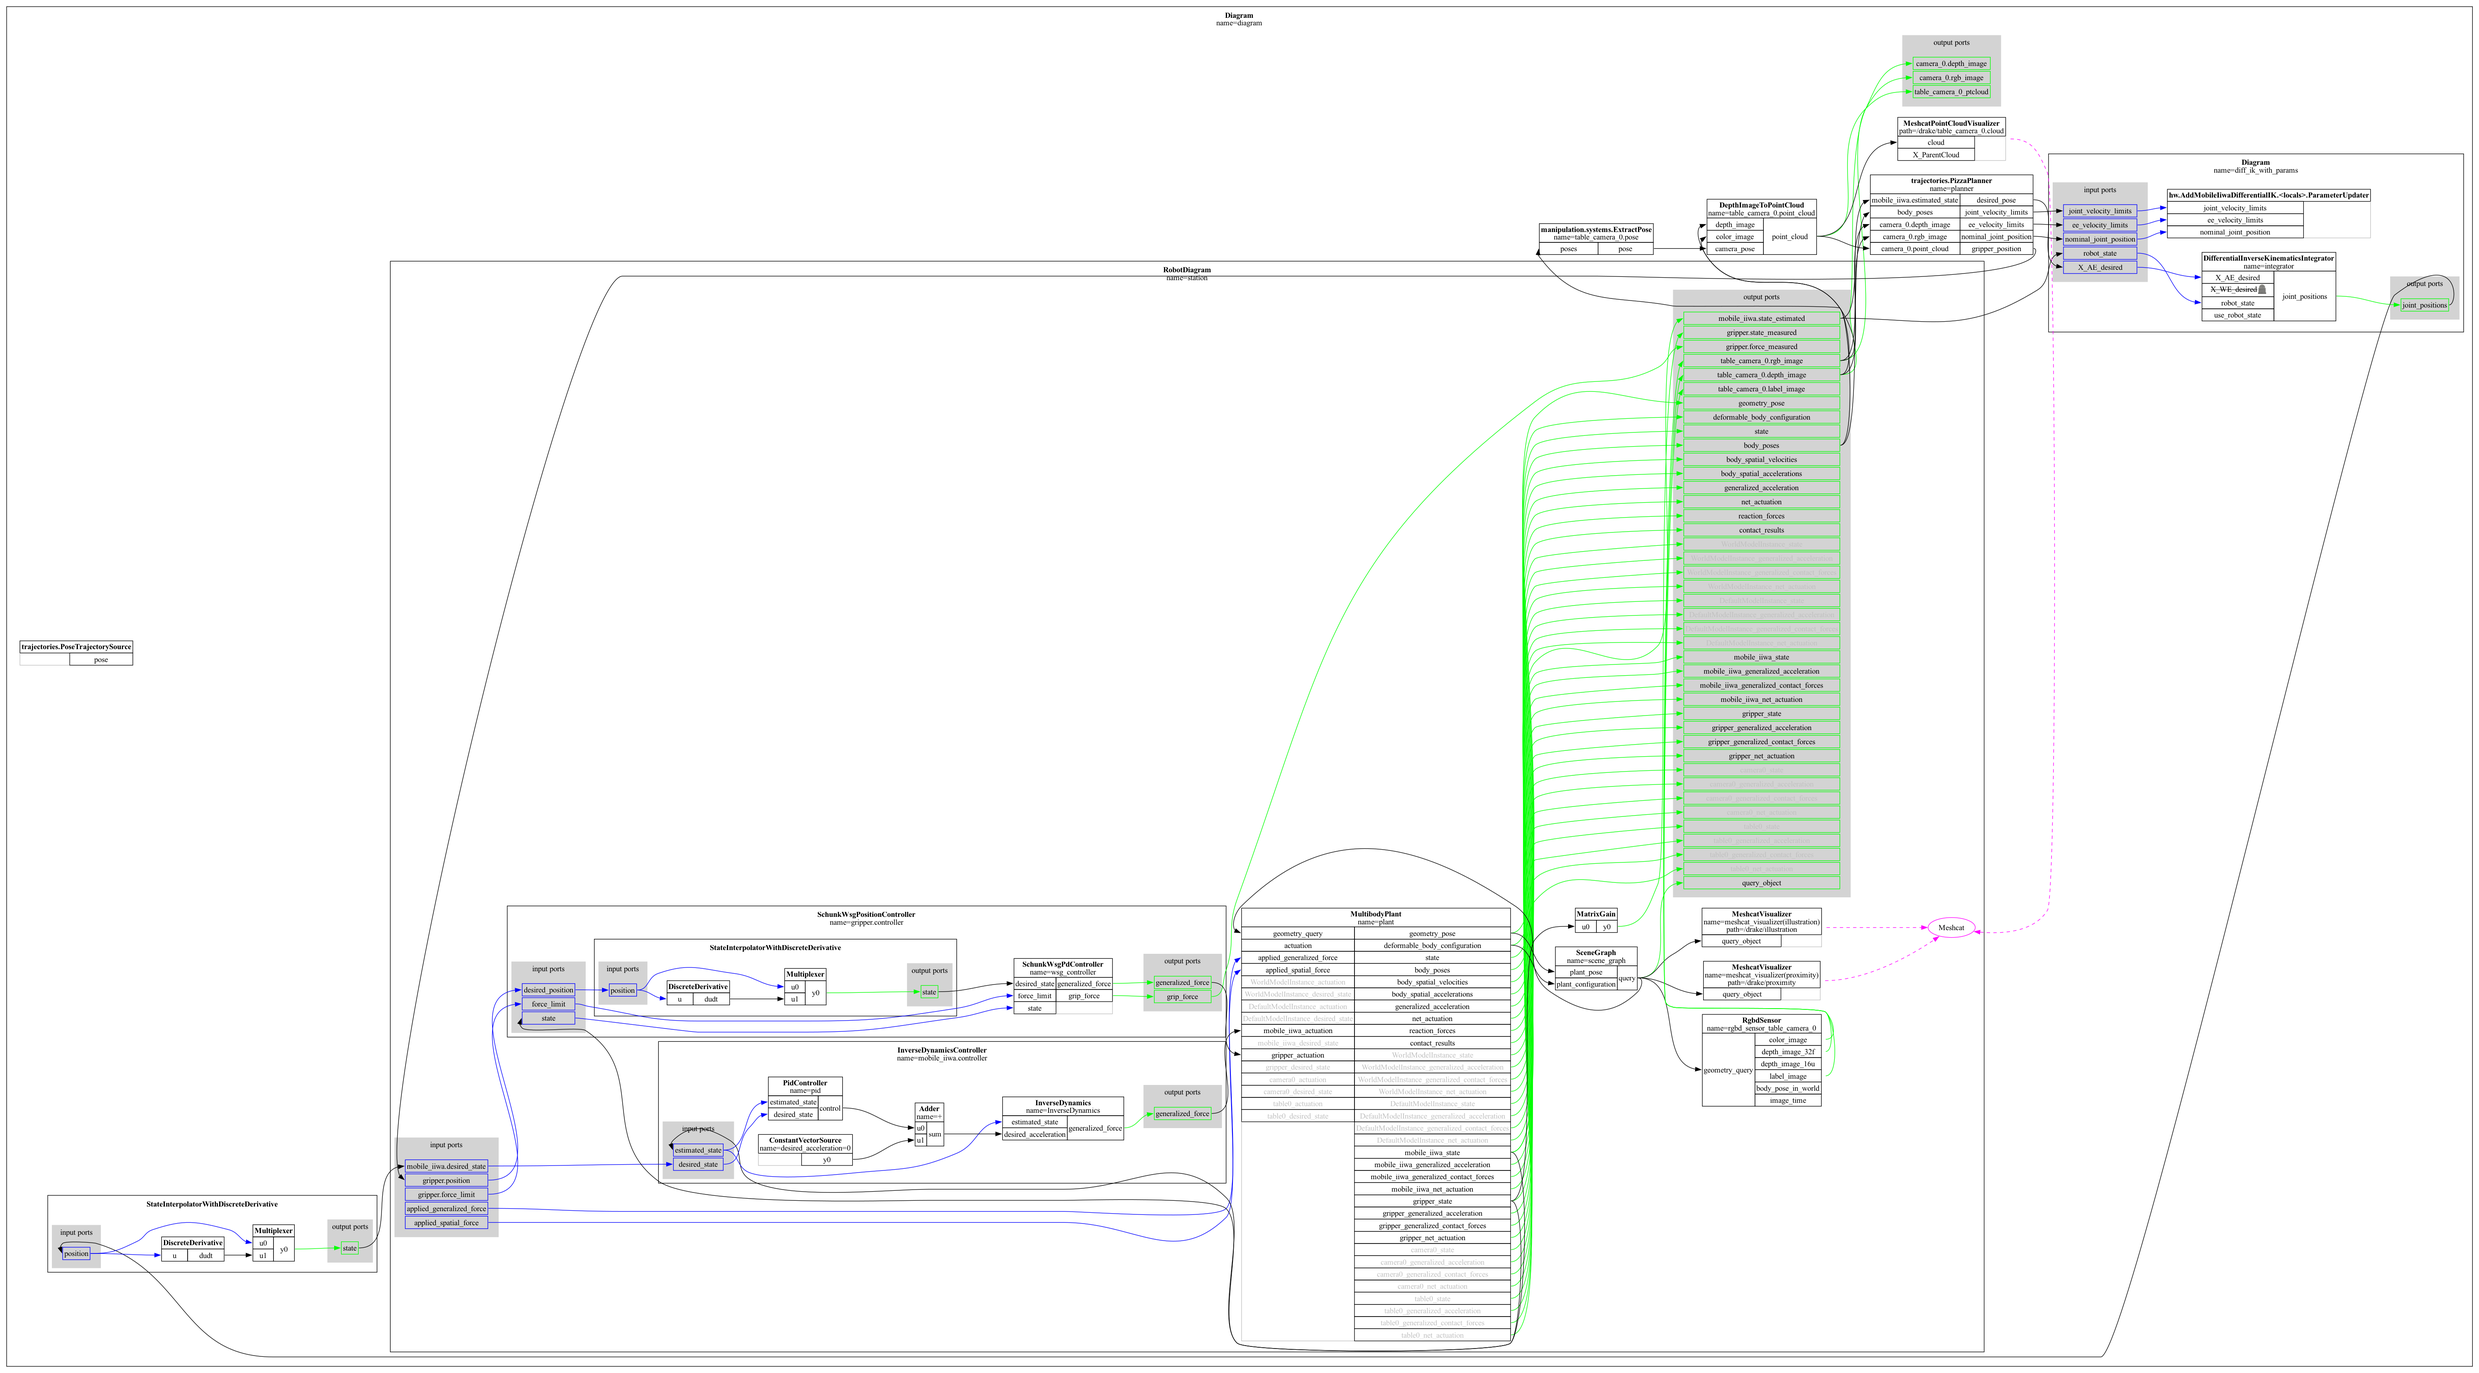
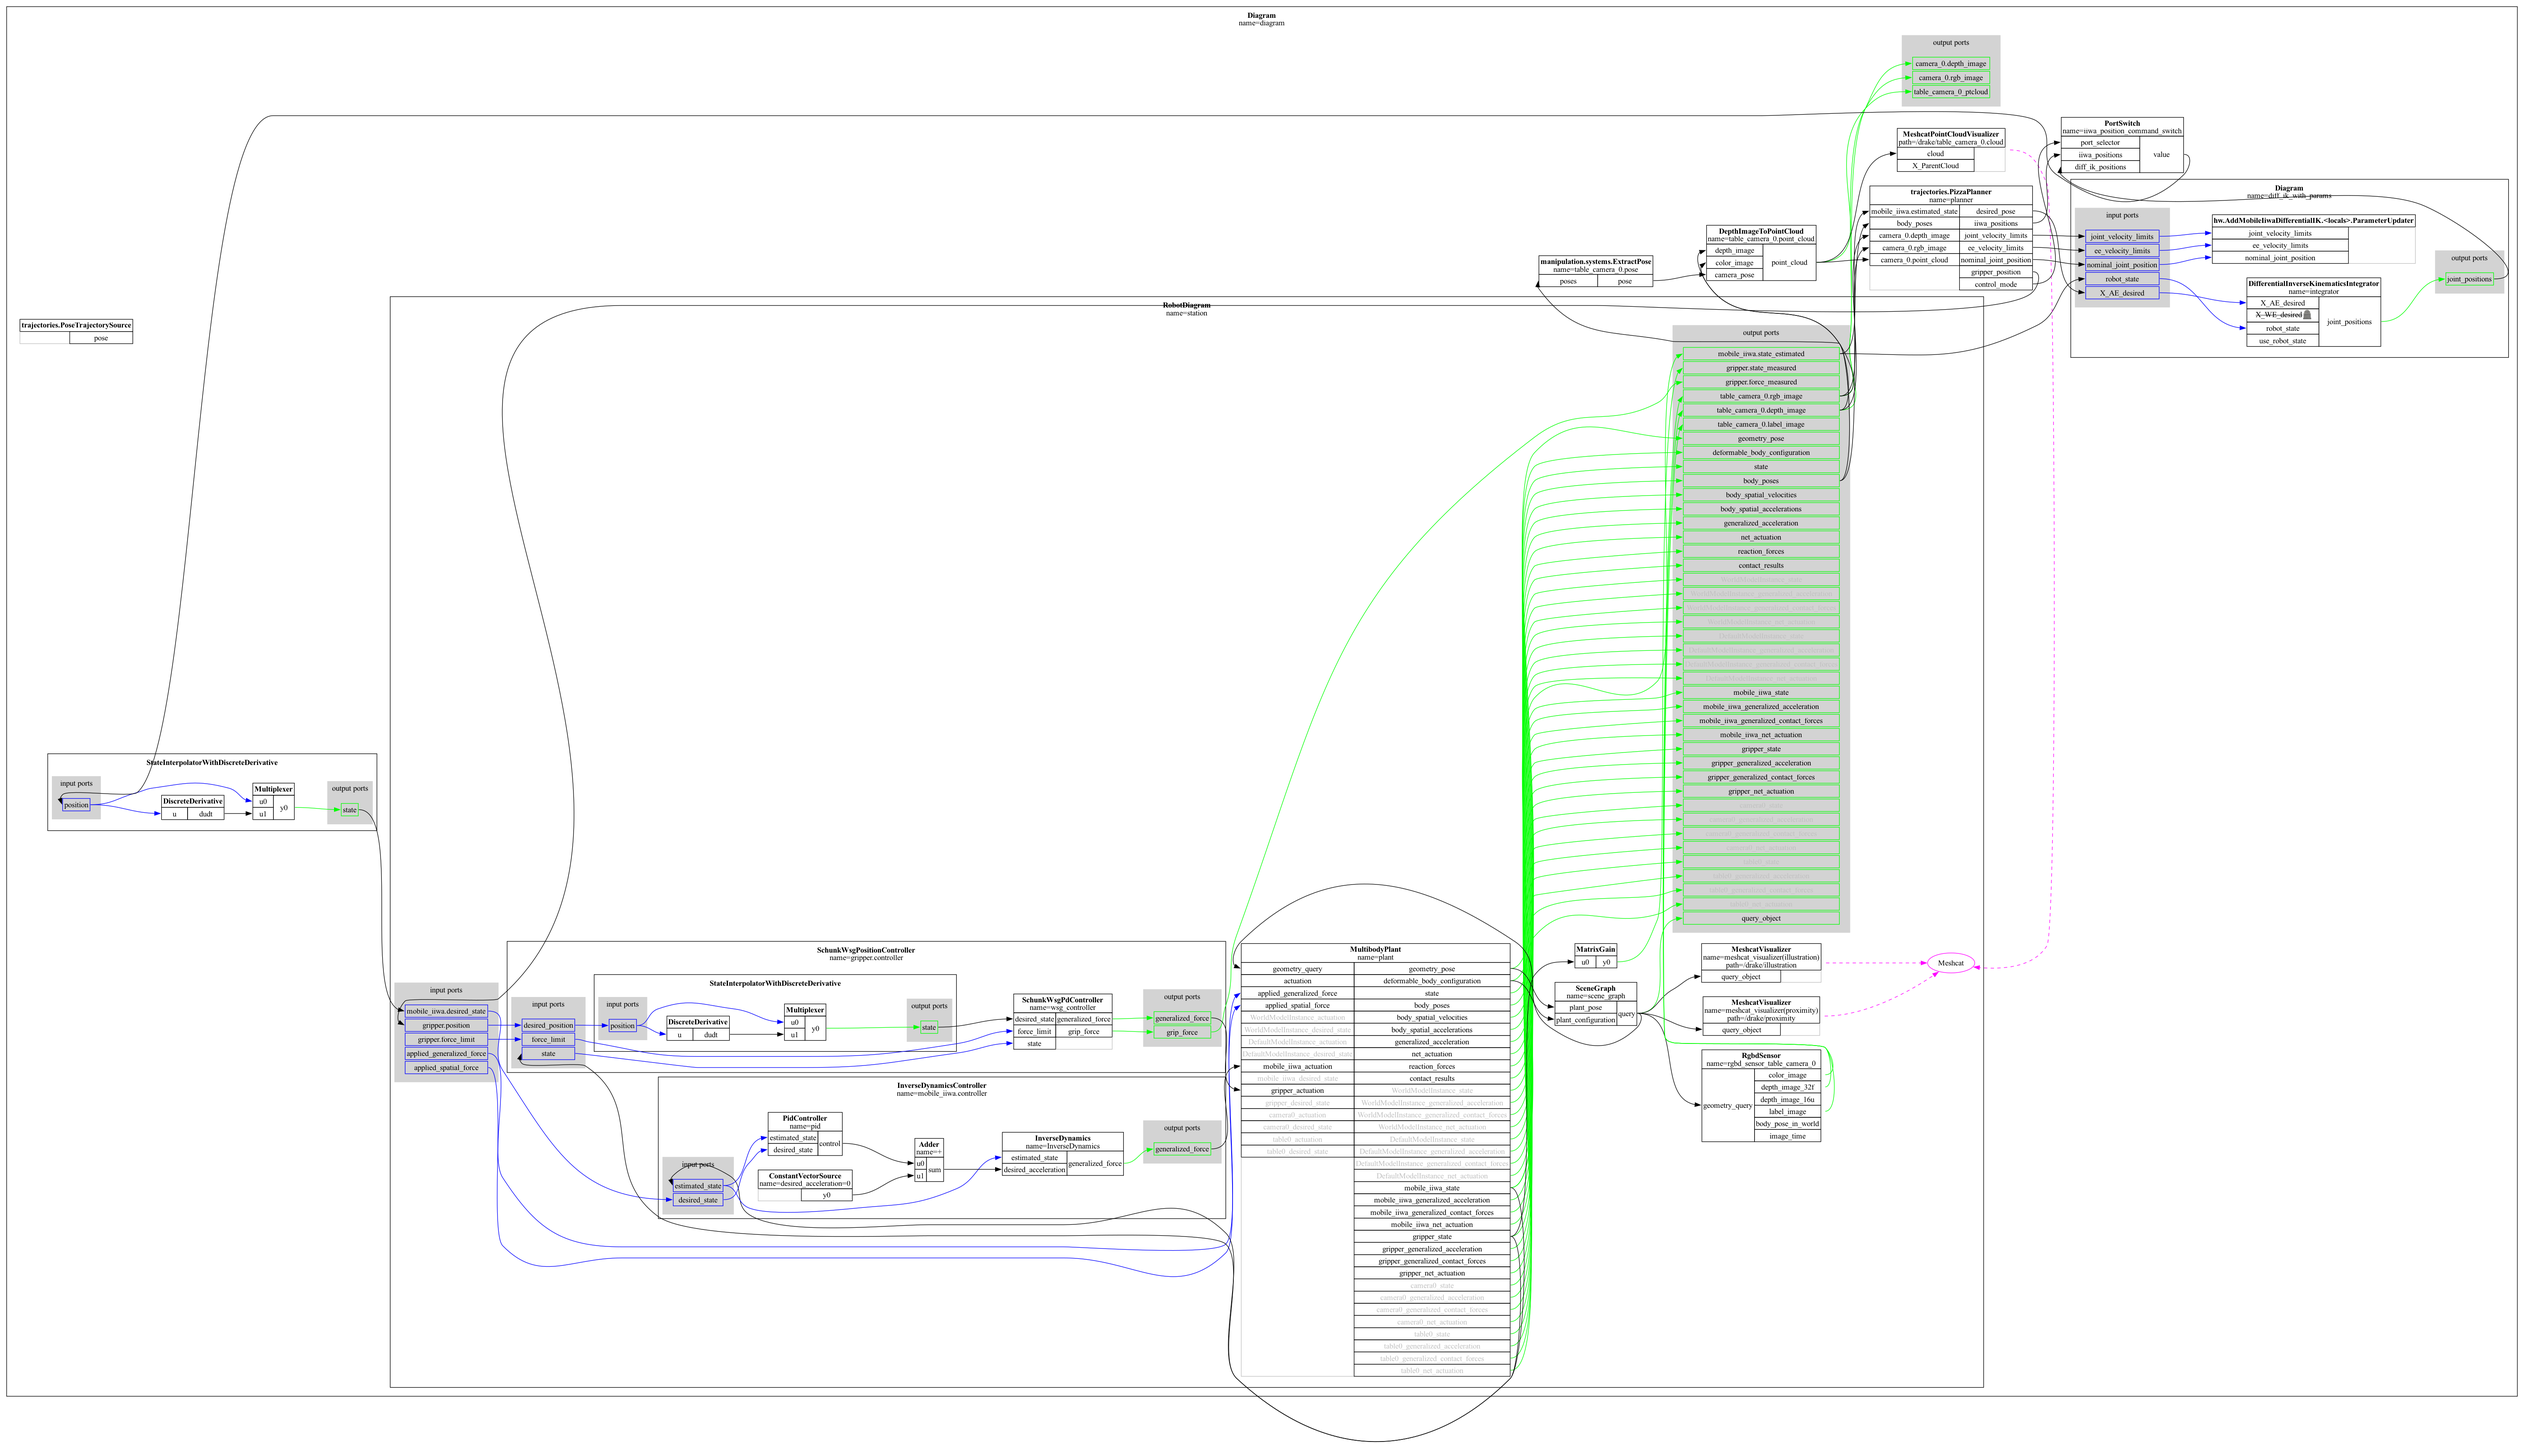
added port switch for inverse kinematics

diff --git a/project/trajectories.py b/project/trajectories.py
@@ -15,6 +15,7 @@ from pydrake.all import (
     DiscreteValues,
     DifferentialInverseKinematicsParameters,
     InputPortIndex,
+    InverseKinematics,
     LeafSystem,
     MultibodyPlant,
     PathParameterizedTrajectory,
@@ -214,6 +215,10 @@ class PizzaPlanner(LeafSystem):
             AbstractValue.Make(default_gripper_pose)
         )
 
+        self._control_mode_idx = self.DeclareAbstractState(
+            AbstractValue.Make(InputPortIndex(0))
+        )
+
         # ------------ CAMERA INPUT PORTS ------------ #
         self._camera_depth_input_port = self.DeclareAbstractInputPort(
             "camera_0.depth_image",
@@ -228,7 +233,8 @@ class PizzaPlanner(LeafSystem):
             AbstractValue.Make(PointCloud())
         )
 
-        # OUTPUT PORTS (keep the order)
+        # ----------------- OUTPUT PORTS ----------------- #
+        # (keep the order)
         self.DeclareAbstractOutputPort(
             "desired_pose",
             alloc=lambda: AbstractValue.Make(RigidTransform()),
@@ -236,9 +242,9 @@ class PizzaPlanner(LeafSystem):
         )
 
         # TODO: remove this output port if we don't need?
-        # self.DeclareVectorOutputPort(
-        #     "current_iiwa_positions", num_joint_positions, self._get_current_iiwa_positions
-        # )
+        self.DeclareVectorOutputPort(
+            "iiwa_positions", num_joint_positions, self._get_iiwa_positions
+        )
 
         self._joint_output_port = self.DeclareVectorOutputPort(
             "joint_velocity_limits",
@@ -261,6 +267,13 @@ class PizzaPlanner(LeafSystem):
             self._set_gripper_position
         )
 
+        self._control_mode_port = self.DeclareAbstractOutputPort(
+            "control_mode", lambda: AbstractValue.Make(InputPortIndex(0)),
+            self._calc_control_mode
+        )
+
+
+
         # self.DeclareVectorOutputPort(
         #     "joint_centering_gains",
         #     num_joint_positions,
@@ -270,8 +283,11 @@ class PizzaPlanner(LeafSystem):
         self.DeclareInitializationDiscreteUpdateEvent(self._initialize_discrete_state)
         self.DeclarePerStepUnrestrictedUpdateEvent(self._run_fsm_logic)
 
-    def _get_current_iiwa_positions(self, context: Context, output: BasicVector) -> None:
-        positions = context.get_discrete_state(self._current_iiwa_positions_idx).get_value()
+    def _calc_control_mode(self, context: Context, output: AbstractValue) -> None:
+        output.set_value(context.get_abstract_state(self._control_mode_idx).get_value())
+
+    def _get_iiwa_positions(self, context: Context, output: BasicVector) -> None:
+        positions = context.get_discrete_state(self._iiwa_positions_idx).get_value()
         output.set_value(positions)
 
     def _solve_gripper_pose(self, context: Context) -> RigidTransform:
@@ -308,7 +324,7 @@ class PizzaPlanner(LeafSystem):
     
 
     def _initialize_discrete_state(self, context: Context, discrete_values: DiscreteValues) -> None:
-        discrete_values.get_mutable_vector(self._current_iiwa_positions_idx).SetFromVector(
+        discrete_values.get_mutable_vector(self._iiwa_positions_idx).SetFromVector(
             self._iiwa_state_estimated_input_port.Eval(context)[:10]
         )
 
@@ -376,7 +392,6 @@ class PizzaPlanner(LeafSystem):
             if current_time >= 1.0:
                 transition_to_state(PizzaRobotState.MOVE_TO_BOWL_0)
         
-
         # ----------------- EVALUATE PIZZA STATE ----------------- #
         elif fsm_state_value == PizzaRobotState.EVAL_PIZZA_STATE:
             # print("Evaluating pizza state.")
@@ -391,25 +406,6 @@ class PizzaPlanner(LeafSystem):
 
             mutable_fsm_state.set_value(PizzaRobotState.FINISHED)
             print("Transitioning to FINISHED state.")
-
-        # # ----------------- MOVE TO BOWL 0 ----------------- #
-        # elif fsm_state_value == PizzaRobotState.MOVE_TO_BOWL_0:
-
-        #     curr_pose = self._body_poses_input_port.Eval(context)[self._gripper_body_index]
-        #     pose_traj = self.make_traj_move_arm(
-        #         context,
-        #         start_pose=curr_pose,
-        #         goal_pose=RigidTransform(
-        #             curr_pose.rotation(),
-        #             p=self.workstation_poses["table_1"].translation() # only move xyz base to the location we defined
-        #         ),
-        #         start_time=current_time,
-        #         move_time=5
-        #     )
-        #     state.get_mutable_abstract_state(self._pose_trajectory_idx).set_value(
-        #         PiecewisePoseWithTimingInformation(trajectory=pose_traj, start_time_s=current_time)
-        #     )
-        #     transition_to_state(PizzaRobotState.EXECUTE_PLANNED_TRAJECTORY)
 
         # ----------------- PLAN AND EXECUTE MOVE TO BOWL 0 ----------------- #
         elif fsm_state_value == PizzaRobotState.MOVE_TO_BOWL_0:

diff --git a/project/hw.py b/project/hw.py
@@ -28,6 +28,7 @@ from pydrake.all import (
     StateInterpolatorWithDiscreteDerivative,
     DifferentialInverseKinematicsParameters,
     LinearConstraint,
+    PortSwitch,
 )
 
 from IPython.display import display, SVG
@@ -344,10 +345,10 @@ def init_builder(meshcat, scenario, traj=PiecewisePose()):
         controller.GetInputPort("robot_state"),
     )
 
-    builder.Connect(
-        controller.get_output_port(),
-        pos_to_state_sys.get_input_port(),
-    )
+    # builder.Connect(
+    #     controller.get_output_port(),
+    #     pos_to_state_sys.get_input_port(),
+    # )
 
     builder.Connect(
         pos_to_state_sys.get_output_port(),
@@ -408,6 +409,28 @@ def init_builder(meshcat, scenario, traj=PiecewisePose()):
         state_machine.GetOutputPort("gripper_position"),
         station.GetInputPort("gripper.position")
     )
+
+    # PortSwitch for switching between joint trajectory source and differential IK
+    iiwa_position_command_switch: PortSwitch = builder.AddNamedSystem(
+        "iiwa_position_command_switch", PortSwitch(10)
+    )
+    builder.Connect(
+        state_machine.GetOutputPort("control_mode"),
+        iiwa_position_command_switch.get_port_selector_input_port(),
+    )
+    builder.Connect(
+        state_machine.GetOutputPort("iiwa_positions"),
+        iiwa_position_command_switch.DeclareInputPort("iiwa_positions")
+    )
+    builder.Connect(
+        controller.GetOutputPort("joint_positions"),
+        iiwa_position_command_switch.DeclareInputPort("diff_ik_positions")
+    )
+    builder.Connect(
+        iiwa_position_command_switch.get_output_port(),
+        pos_to_state_sys.get_input_port()
+    )
+        
 
 
     # builder.Connect(
